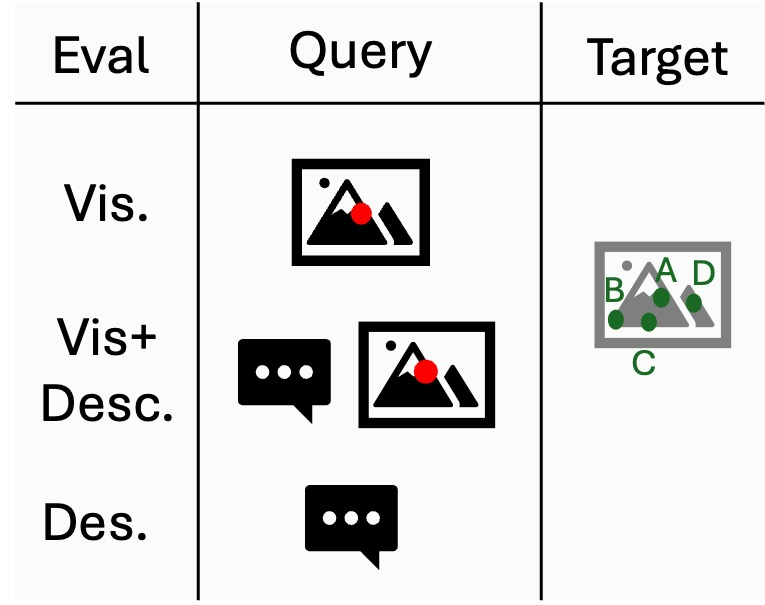
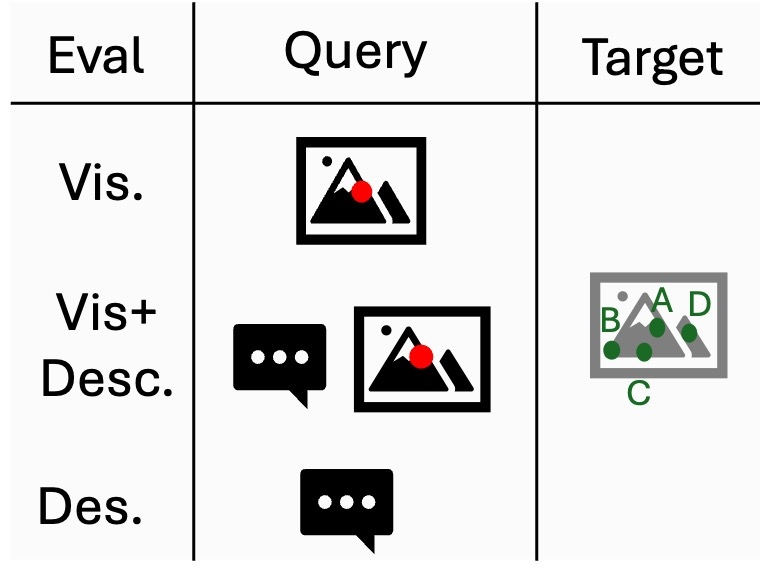
Updates to project page.

diff --git a/index.html b/index.html
@@ -29,12 +29,12 @@
       </h1>
 
       <div class="authors">
-        <span class="author">Olaf Dünkel<sup>1,&#9733;</sup></span>
-        <span class="author">Basavaraj Sunagad<sup>2,&#9733;</sup></span>
-        <span class="author">Haoran Wang<sup>1</sup></span>
-        <span class="author">David T. Hoffmann<sup>3</sup></span>
-        <span class="author">Christian Theobalt<sup>1</sup></span>
-        <span class="author">Adam Kortylewski<sup>2</sup></span>
+        <span class="author"><a class="author-link" href="https://odunkel.github.io/" target="_blank" rel="noopener">Olaf Dünkel</a><sup>1,&#9733;</sup></span>
+        <span class="author"><a class="author-link" href="https://cispa.de/de/people/c02basu" target="_blank" rel="noopener">Basavaraj Sunagad</a><sup>2,&#9733;</sup></span>
+        <span class="author"><a class="author-link" href="https://krumo.github.io/" target="_blank" rel="noopener">Haoran Wang</a><sup>1</sup></span>
+        <span class="author"><a class="author-link" href="https://www.linkedin.com/in/david-t-hoffmann-76b3331a2/" target="_blank" rel="noopener">David T. Hoffmann</a><sup>3</sup></span>
+        <span class="author"><a class="author-link" href="https://people.mpi-inf.mpg.de/~theobalt/" target="_blank" rel="noopener">Christian Theobalt</a><sup>1</sup></span>
+        <span class="author"><a class="author-link" href="https://genintel.de/" target="_blank" rel="noopener">Adam Kortylewski</a><sup>2</sup></span>
       </div>
       <div class="affiliations">
         <span><sup>1</sup>Max Planck Institute for Informatics, Saarland Informatics Campus</span>
@@ -189,7 +189,7 @@
         <div class="stat"><div class="stat-value">100</div><div class="stat-label">object categories</div></div>
         <div class="stat"><div class="stat-value">4</div><div class="stat-label">super-classes</div></div>
         <div class="stat"><div class="stat-value">&gt;1M</div><div class="stat-label">correspondence pairs</div></div>
-        <div class="stat"><div class="stat-value">3</div><div class="stat-label">correspondence types</div></div>
+        <div class="stat"><div class="stat-value">4000</div><div class="stat-label">manually annotated images</div></div>
         <div class="stat"><div class="stat-value">✎</div><div class="stat-label">per-keypoint language descriptions</div></div>
       </div>
       <p style="margin-top:16px;color:var(--text-muted);font-size:0.95rem;">
@@ -217,7 +217,7 @@
           <p>
             Strong backbones recognise local concepts well but degrade sharply when object-relative
             identity is required. Even the best model, <strong>DINOv2</strong>, drops from
-            <strong>77.4 (CC)</strong> to <strong>60.8 (SOC)</strong> — a consistent
+            <strong>78.9 (CC)</strong> to <strong>60.4 (SOC)</strong> — a consistent
             CC→SOC <em>repeated-part confusion</em> across every model.
           </p>
         </div>
@@ -227,7 +227,7 @@
           <h3>Cross-category transfer remains challenging</h3>
           <p>
             Moving from SOC to <strong>Cross-SOC</strong> reveals limited category-level abstraction:
-            DINOv2 falls further to <strong>58.6</strong>, and most backbones lose 15–23 points from
+            DINOv2 falls further to <strong>55.0</strong>, and most backbones lose 15–24 points from
             CC, exposing reliance on category-specific appearance.
           </p>
         </div>
@@ -237,8 +237,8 @@
           <h3>LVLMs read text better than they match images</h3>
           <p>
             Current LVLMs are far stronger at text-prompted part localisation than at
-            visual-reference cross-image matching. <strong>Qwen2.5-VL-7B</strong> rises from
-            <strong>18.7 (Vis.)</strong> to <strong>49.0 (Desc.)</strong> — yet all remain well below
+            visual-reference cross-image matching. <strong>Qwen3-VL-8B</strong> rises from
+            <strong>34.2 (Vis.)</strong> to <strong>54.0 (Desc.)</strong> — yet all remain well below
             the DINOv2 ceiling of <strong>79.4</strong>.
           </p>
         </div>
@@ -275,61 +275,61 @@
             </thead>
             <tbody>
               <!-- data-metrics = CC,SOC,Cross-SOC -->
-              <tr class="results-row is-active" data-metrics="77.4,60.8,58.6" data-label="DINOv2"     data-color="#2c69b0">
+              <tr class="results-row is-active" data-metrics="78.9,60.4,55.0" data-label="DINOv2"     data-color="#2c69b0">
                 <td><span class="row-swatch" style="background:#2c69b0"></span>DINOv2</td>
-                <td><strong>77.4</strong></td><td><strong>60.8</strong></td><td><strong>58.6</strong></td><td><strong>65.6</strong></td>
+                <td><strong>78.9</strong></td><td><strong>60.4</strong></td><td><strong>55.0</strong></td><td><strong>64.8</strong></td>
               </tr>
-              <tr class="results-row is-active" data-metrics="68.4,57.2,49.5" data-label="DINOv3"     data-color="#1d4ed8">
+              <tr class="results-row is-active" data-metrics="69.7,55.5,49.4" data-label="DINOv3"     data-color="#1d4ed8">
                 <td><span class="row-swatch" style="background:#1d4ed8"></span>DINOv3</td>
-                <td>68.4</td><td>57.2</td><td>49.5</td><td>58.4</td>
+                <td>69.7</td><td>55.5</td><td>49.4</td><td>58.2</td>
               </tr>
-              <tr class="results-row is-active" data-metrics="67.8,51.4,47.1" data-label="C-RADIOv3"  data-color="#0891b2">
+              <tr class="results-row is-active" data-metrics="69.0,51.1,46.3" data-label="C-RADIOv3"  data-color="#0891b2">
                 <td><span class="row-swatch" style="background:#0891b2"></span>C-RADIOv3</td>
-                <td>67.8</td><td>51.4</td><td>47.1</td><td>55.4</td>
+                <td>69.0</td><td>51.1</td><td>46.3</td><td>55.5</td>
               </tr>
-              <tr class="results-row is-active" data-metrics="59.4,47.2,36.8" data-label="I-JEPA"     data-color="#059669">
+              <tr class="results-row is-active" data-metrics="60.5,46.3,38.4" data-label="I-JEPA"     data-color="#059669">
                 <td><span class="row-swatch" style="background:#059669"></span>I-JEPA</td>
-                <td>59.4</td><td>47.2</td><td>36.8</td><td>47.8</td>
+                <td>60.5</td><td>46.3</td><td>38.4</td><td>48.4</td>
               </tr>
-              <tr class="results-row" data-metrics="58.2,43.6,38.8" data-label="PE-Spatial"  data-color="#16a34a">
-                <td><span class="row-swatch" style="background:#16a34a"></span>PE-Spatial</td>
-                <td>58.2</td><td>43.6</td><td>38.8</td><td>46.9</td>
-              </tr>
-              <tr class="results-row" data-metrics="58.0,46.5,37.3" data-label="DUNE"        data-color="#65a30d">
+              <tr class="results-row" data-metrics="60.1,45.7,38.5" data-label="DUNE"        data-color="#65a30d">
                 <td><span class="row-swatch" style="background:#65a30d"></span>DUNE</td>
-                <td>58.0</td><td>46.5</td><td>37.3</td><td>47.2</td>
+                <td>60.1</td><td>45.7</td><td>38.5</td><td>48.1</td>
               </tr>
-              <tr class="results-row" data-metrics="53.8,45.8,37.3" data-label="SD 2.1"      data-color="#ca8a04">
+              <tr class="results-row" data-metrics="60.6,43.8,38.8" data-label="PE-Spatial"  data-color="#16a34a">
+                <td><span class="row-swatch" style="background:#16a34a"></span>PE-Spatial</td>
+                <td>60.6</td><td>43.8</td><td>38.8</td><td>47.7</td>
+              </tr>
+              <tr class="results-row" data-metrics="56.0,44.8,38.3" data-label="SD 2.1"      data-color="#ca8a04">
                 <td><span class="row-swatch" style="background:#ca8a04"></span>SD 2.1</td>
-                <td>53.8</td><td>45.8</td><td>37.3</td><td>45.6</td>
+                <td>56.0</td><td>44.8</td><td>38.3</td><td>46.4</td>
               </tr>
-              <tr class="results-row" data-metrics="54.3,40.5,37.1" data-label="iBOT"        data-color="#d97706">
+              <tr class="results-row" data-metrics="55.2,39.6,34.1" data-label="iBOT"        data-color="#d97706">
                 <td><span class="row-swatch" style="background:#d97706"></span>iBOT</td>
-                <td>54.3</td><td>40.5</td><td>37.1</td><td>44.0</td>
+                <td>55.2</td><td>39.6</td><td>34.1</td><td>43.0</td>
               </tr>
-              <tr class="results-row" data-metrics="48.3,38.5,29.7" data-label="PIXIO"       data-color="#e67e22">
+              <tr class="results-row" data-metrics="49.5,37.5,32.9" data-label="PIXIO"       data-color="#e67e22">
                 <td><span class="row-swatch" style="background:#e67e22"></span>PIXIO</td>
-                <td>48.3</td><td>38.5</td><td>29.7</td><td>38.8</td>
+                <td>49.5</td><td>37.5</td><td>32.9</td><td>40.0</td>
               </tr>
-              <tr class="results-row is-active" data-metrics="42.9,31.4,22.3" data-label="DINOv1"     data-color="#a855f7">
+              <tr class="results-row is-active" data-metrics="43.8,30.6,23.9" data-label="DINOv1"     data-color="#a855f7">
                 <td><span class="row-swatch" style="background:#a855f7"></span>DINOv1</td>
-                <td>42.9</td><td>31.4</td><td>22.3</td><td>32.2</td>
+                <td>43.8</td><td>30.6</td><td>23.9</td><td>32.8</td>
               </tr>
-              <tr class="results-row is-active" data-metrics="26.3,19.9,12.2" data-label="QWEN-L"      data-color="#dc2626">
+              <tr class="results-row is-active" data-metrics="27.2,19.4,16.2" data-label="QWEN-L"      data-color="#dc2626">
                 <td><span class="row-swatch" style="background:#dc2626"></span>QWEN-L</td>
-                <td>26.3</td><td>19.9</td><td>12.2</td><td>19.5</td>
+                <td>27.2</td><td>19.4</td><td>16.2</td><td>20.9</td>
               </tr>
-              <tr class="results-row is-active" data-metrics="24.4,16.4,10.5" data-label="CLIP"        data-color="#ec4899">
+              <tr class="results-row is-active" data-metrics="24.9,16.1,11.2" data-label="CLIP"        data-color="#ec4899">
                 <td><span class="row-swatch" style="background:#ec4899"></span>CLIP</td>
-                <td>24.4</td><td>16.4</td><td>10.5</td><td>17.1</td>
+                <td>24.9</td><td>16.1</td><td>11.2</td><td>17.4</td>
               </tr>
-              <tr class="results-row" data-metrics="15.1,10.6,5.3" data-label="CroCov2"     data-color="#78716c">
+              <tr class="results-row" data-metrics="15.2,10.2,7.8" data-label="CroCov2"     data-color="#78716c">
                 <td><span class="row-swatch" style="background:#78716c"></span>CroCov2</td>
-                <td>15.1</td><td>10.6</td><td>5.3</td><td>10.3</td>
+                <td>15.2</td><td>10.2</td><td>7.8</td><td>11.1</td>
               </tr>
-              <tr class="results-row" data-metrics="14.7,10.1,5.0" data-label="MAE"         data-color="#a8a29e">
+              <tr class="results-row" data-metrics="14.4,9.4,7.2" data-label="MAE"         data-color="#a8a29e">
                 <td><span class="row-swatch" style="background:#a8a29e"></span>MAE</td>
-                <td>14.7</td><td>10.1</td><td>5.0</td><td>9.9</td>
+                <td>14.4</td><td>9.4</td><td>7.2</td><td>10.3</td>
               </tr>
             </tbody>
           </table>
@@ -344,6 +344,43 @@
             SOC to Cross-SOC for every model.
           </figcaption>
         </figure>
+      </div>
+
+      <!-- ============ SUPER-CATEGORY BREAKDOWN ============ -->
+      <h3>SOC by Super-category</h3>
+      <p>
+        SOC accuracy broken down by SOCO's four super-categories. Models behave quite differently
+        across object families: e.g. <strong>DINOv3</strong> leads on furniture, while
+        <strong>DINOv2</strong> dominates transportation, hand-held objects, and animals.
+      </p>
+      <div class="table-wrap">
+        <table class="results-table results-table--compact">
+          <thead>
+            <tr>
+              <th>Model</th>
+              <th>Transportation</th>
+              <th>Hand-held</th>
+              <th>Furniture</th>
+              <th>Animals</th>
+            </tr>
+          </thead>
+          <tbody>
+            <tr><td>DINOv2</td>     <td><strong>56.9</strong></td><td><strong>61.6</strong></td><td>45.5</td><td><strong>66.3</strong></td></tr>
+            <tr><td>DINOv3</td>     <td>51.6</td><td>57.4</td><td><strong>59.9</strong></td><td>56.6</td></tr>
+            <tr><td>C-RADIOv3</td>  <td>51.7</td><td>48.1</td><td>39.7</td><td>54.8</td></tr>
+            <tr><td>I-JEPA</td>     <td>41.5</td><td>51.0</td><td>46.7</td><td>47.7</td></tr>
+            <tr><td>DUNE</td>       <td>40.0</td><td>50.5</td><td>51.0</td><td>46.6</td></tr>
+            <tr><td>PE-Spatial</td> <td>45.1</td><td>40.7</td><td>37.6</td><td>45.9</td></tr>
+            <tr><td>SD 2.1</td>     <td>42.4</td><td>45.3</td><td>47.7</td><td>45.6</td></tr>
+            <tr><td>iBOT</td>       <td>36.1</td><td>40.1</td><td>32.8</td><td>43.9</td></tr>
+            <tr><td>PIXIO</td>      <td>37.3</td><td>40.2</td><td>46.7</td><td>34.2</td></tr>
+            <tr><td>DINOv1</td>     <td>29.1</td><td>32.9</td><td>27.4</td><td>31.4</td></tr>
+            <tr><td>QWEN-L</td>     <td>21.7</td><td>24.1</td><td>22.6</td><td>14.5</td></tr>
+            <tr><td>CLIP</td>       <td>17.5</td><td>14.2</td><td>11.6</td><td>16.9</td></tr>
+            <tr><td>CroCov2</td>    <td>11.6</td><td>12.3</td><td>10.2</td><td>8.1</td></tr>
+            <tr><td>MAE</td>        <td>10.0</td><td>11.9</td><td>11.7</td><td>7.1</td></tr>
+          </tbody>
+        </table>
       </div>
 
       <!-- ============ CHART B: DOWNSTREAM CORRELATION ============ -->
@@ -369,7 +406,7 @@
         All settings show the target image with candidate keypoints; only the query differs.
         <em>Vis.</em> marks the query in a source image, <em>Vis.+Desc.</em> adds the keypoint
         description, and <em>Desc.</em> uses the description alone. LVLMs improve markedly as language
-        is added, but trail the DINOv2 vision baseline.
+        is added, but remain well below the strongest vision backbones (cf. table above).
       </p>
       <div class="results-layout" style="grid-template-columns: minmax(0,1.4fr) minmax(0,1fr);">
         <div class="table-wrap">
@@ -379,12 +416,14 @@
             </thead>
             <tbody>
               <tr><td>Random</td><td>0.4</td><td>0.4</td><td>0.4</td></tr>
-              <tr><td>DINOv2 <span class="cell-tag">vision baseline</span></td><td><strong>79.4</strong></td><td><strong>79.4</strong></td><td><strong>79.4</strong></td></tr>
-              <tr><td>LLaVA-OV-7B</td><td>5.5</td><td>16.1</td><td>35.0</td></tr>
-              <tr><td>LLaVA-OV-1.5-8B</td><td>21.7</td><td>33.0</td><td>43.8</td></tr>
-              <tr><td>Qwen2.5-VL-3B</td><td>14.7</td><td>26.4</td><td>39.3</td></tr>
-              <tr><td>Qwen2.5-VL-7B</td><td>18.7</td><td>39.8</td><td><strong>49.0</strong></td></tr>
-              <tr><td>InternVL3.5-8B</td><td>25.1</td><td>39.8</td><td>41.5</td></tr>
+              <tr><td>Random++</td><td>25.0</td><td>25.0</td><td>25.0</td></tr>
+              <tr><td>LLaVA-OV-7B</td><td>2.9</td><td>14.1</td><td>24.3</td></tr>
+              <tr><td>InternVL3.5-8B</td><td>24.9</td><td>38.5</td><td>39.6</td></tr>
+              <tr><td>Qwen2.5-VL-3B</td><td>5.2</td><td>17.4</td><td>29.9</td></tr>
+              <tr><td>Qwen2.5-VL-7B</td><td>19.4</td><td>30.8</td><td>39.1</td></tr>
+              <tr><td>Qwen3-VL-4B</td><td>8.6</td><td>18.0</td><td>44.4</td></tr>
+              <tr><td>Qwen3-VL-8B</td><td><strong>34.2</strong></td><td>30.8</td><td><strong>54.0</strong></td></tr>
+              <tr><td>GPT4o</td><td>30.2</td><td>30.9</td><td>37.6</td></tr>
             </tbody>
           </table>
         </div>
@@ -412,30 +451,6 @@
           across related categories.
         </figcaption>
       </figure>
-    </div>
-  </section>
-
-  <!-- ============== LIMITATIONS ============== -->
-  <section class="section section--accent" id="limitations">
-    <div class="container narrow">
-      <h2>Limitations</h2>
-      <ul class="limitations-list">
-        <li>
-          <strong>Annotation subjectivity for fine parts.</strong> Functionally meaningful keypoints
-          reduce ambiguity, but the precise localisation of small or articulated parts can still vary
-          between annotators.
-        </li>
-        <li>
-          <strong>Category and taxonomy scope.</strong> SOCO covers 100 categories across four
-          super-classes; the shared-concept taxonomy is broad but not exhaustive across the long tail
-          of real-world objects.
-        </li>
-        <li>
-          <strong>Protocol coverage.</strong> Our evaluation focuses on PCK-style keypoint
-          correspondence and prompted LVLM settings; other interaction modes (e.g., free-form
-          dialogue) are left to future work.
-        </li>
-      </ul>
     </div>
   </section>
 
@@ -581,8 +596,8 @@
       if (!canvas || typeof Chart === 'undefined') return;
 
       var tasks = ['SemSeg', '3D Det.', '3D Pose', 'MV Cor.', 'Tracking', 'Normals', 'Depth'];
-      var soc = [0.64, 0.89, 0.63, 0.95, 0.91, 0.75, 0.81];
-      var knn = [0.40, 0.35, 0.34, 0.27, 0.29, 0.39, 0.29];
+      var soc = [0.629, 0.892, 0.692, 0.943, 0.907, 0.737, 0.798];
+      var knn = [0.399, 0.393, 0.348, 0.266, 0.286, 0.395, 0.298];
 
       var chart = new Chart(canvas, {
         type: 'bar',

diff --git a/css/style.css b/css/style.css
@@ -1000,6 +1000,19 @@ code {
   -webkit-text-fill-color: transparent;
 }
 
+/* ===== Author links (SOCO) ===== */
+.author-link {
+  color: inherit;
+  text-decoration: none;
+  border-bottom: 1px dotted var(--border);
+  transition: color 0.15s ease, border-color 0.15s ease;
+}
+.author-link:hover {
+  color: var(--primary);
+  border-bottom-color: var(--primary);
+  text-decoration: none;
+}
+
 /* ===== Footer ===== */
 .footer {
   padding: 36px 0;